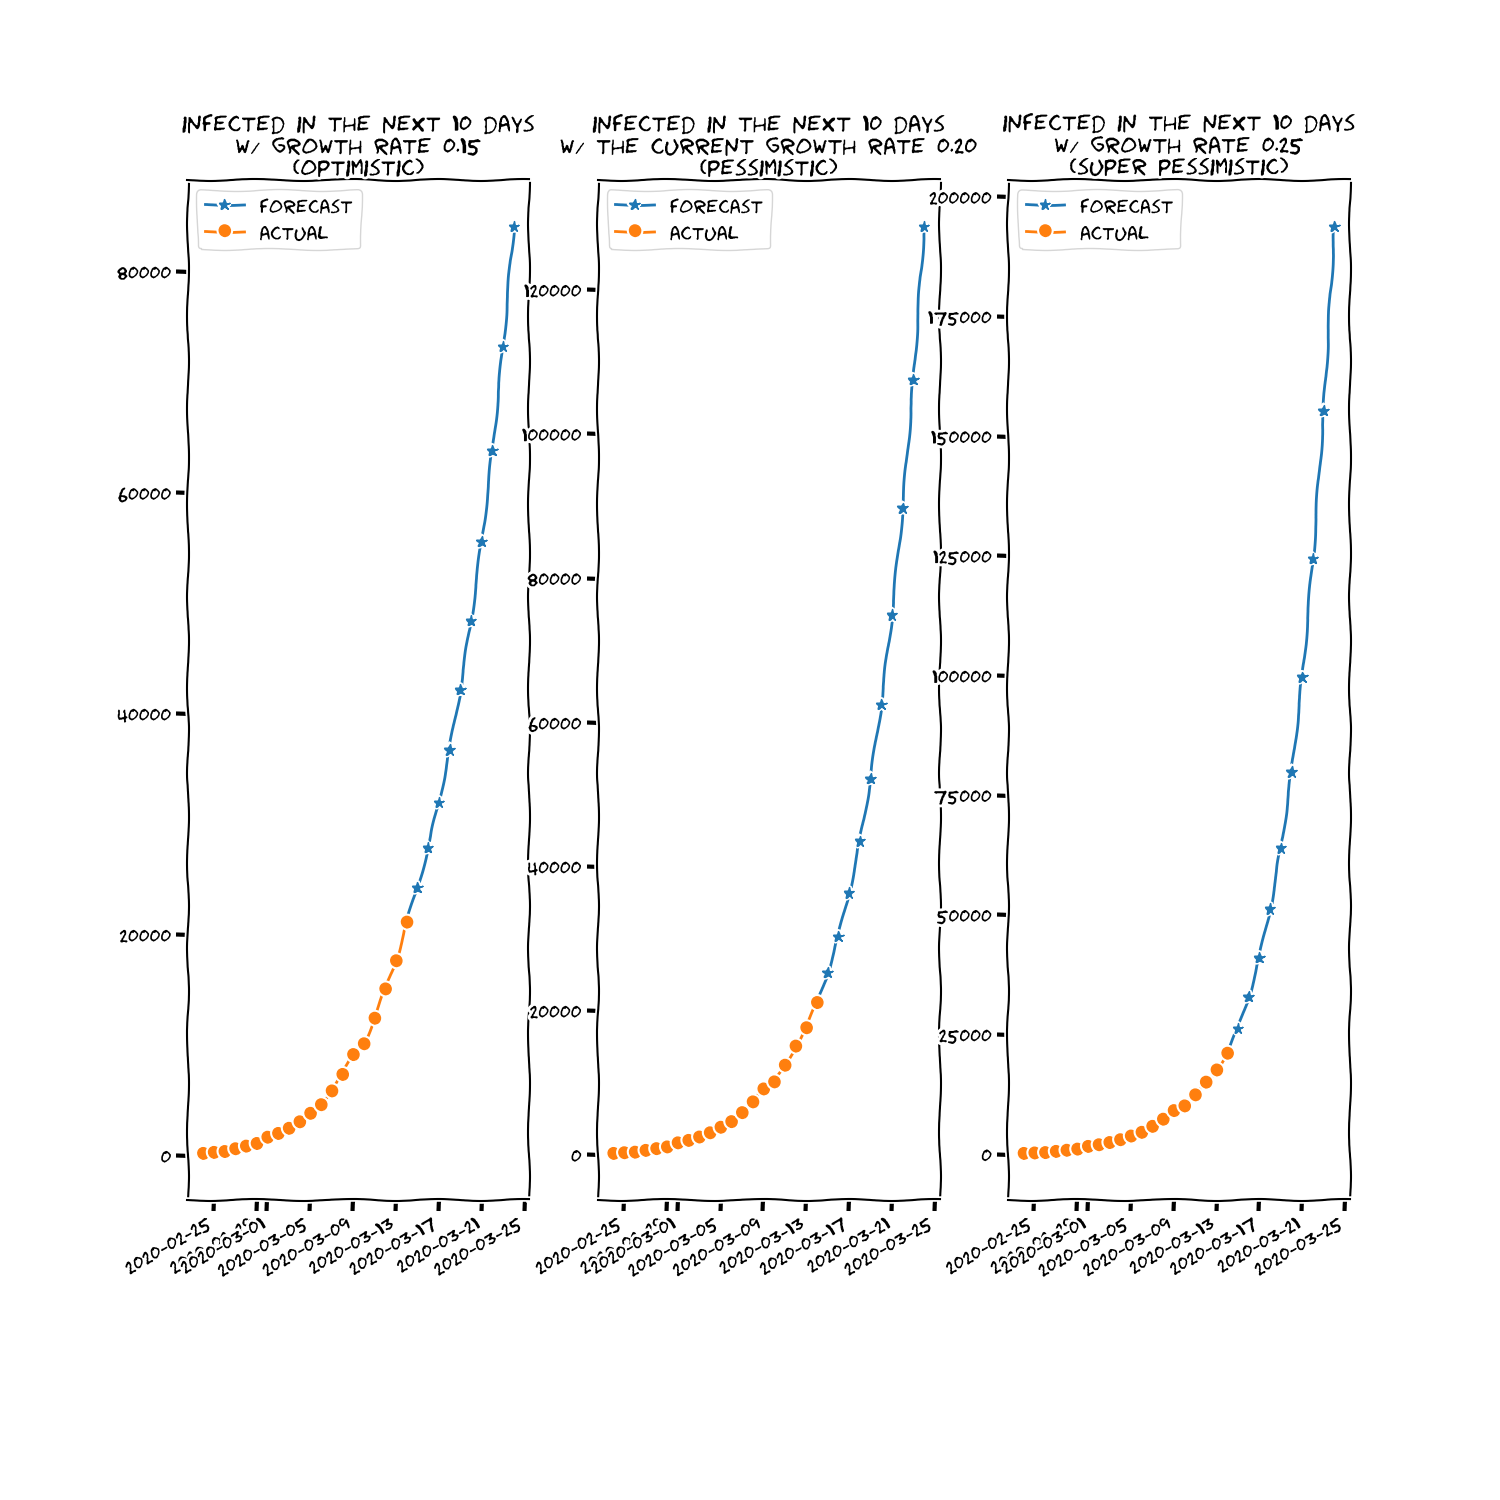
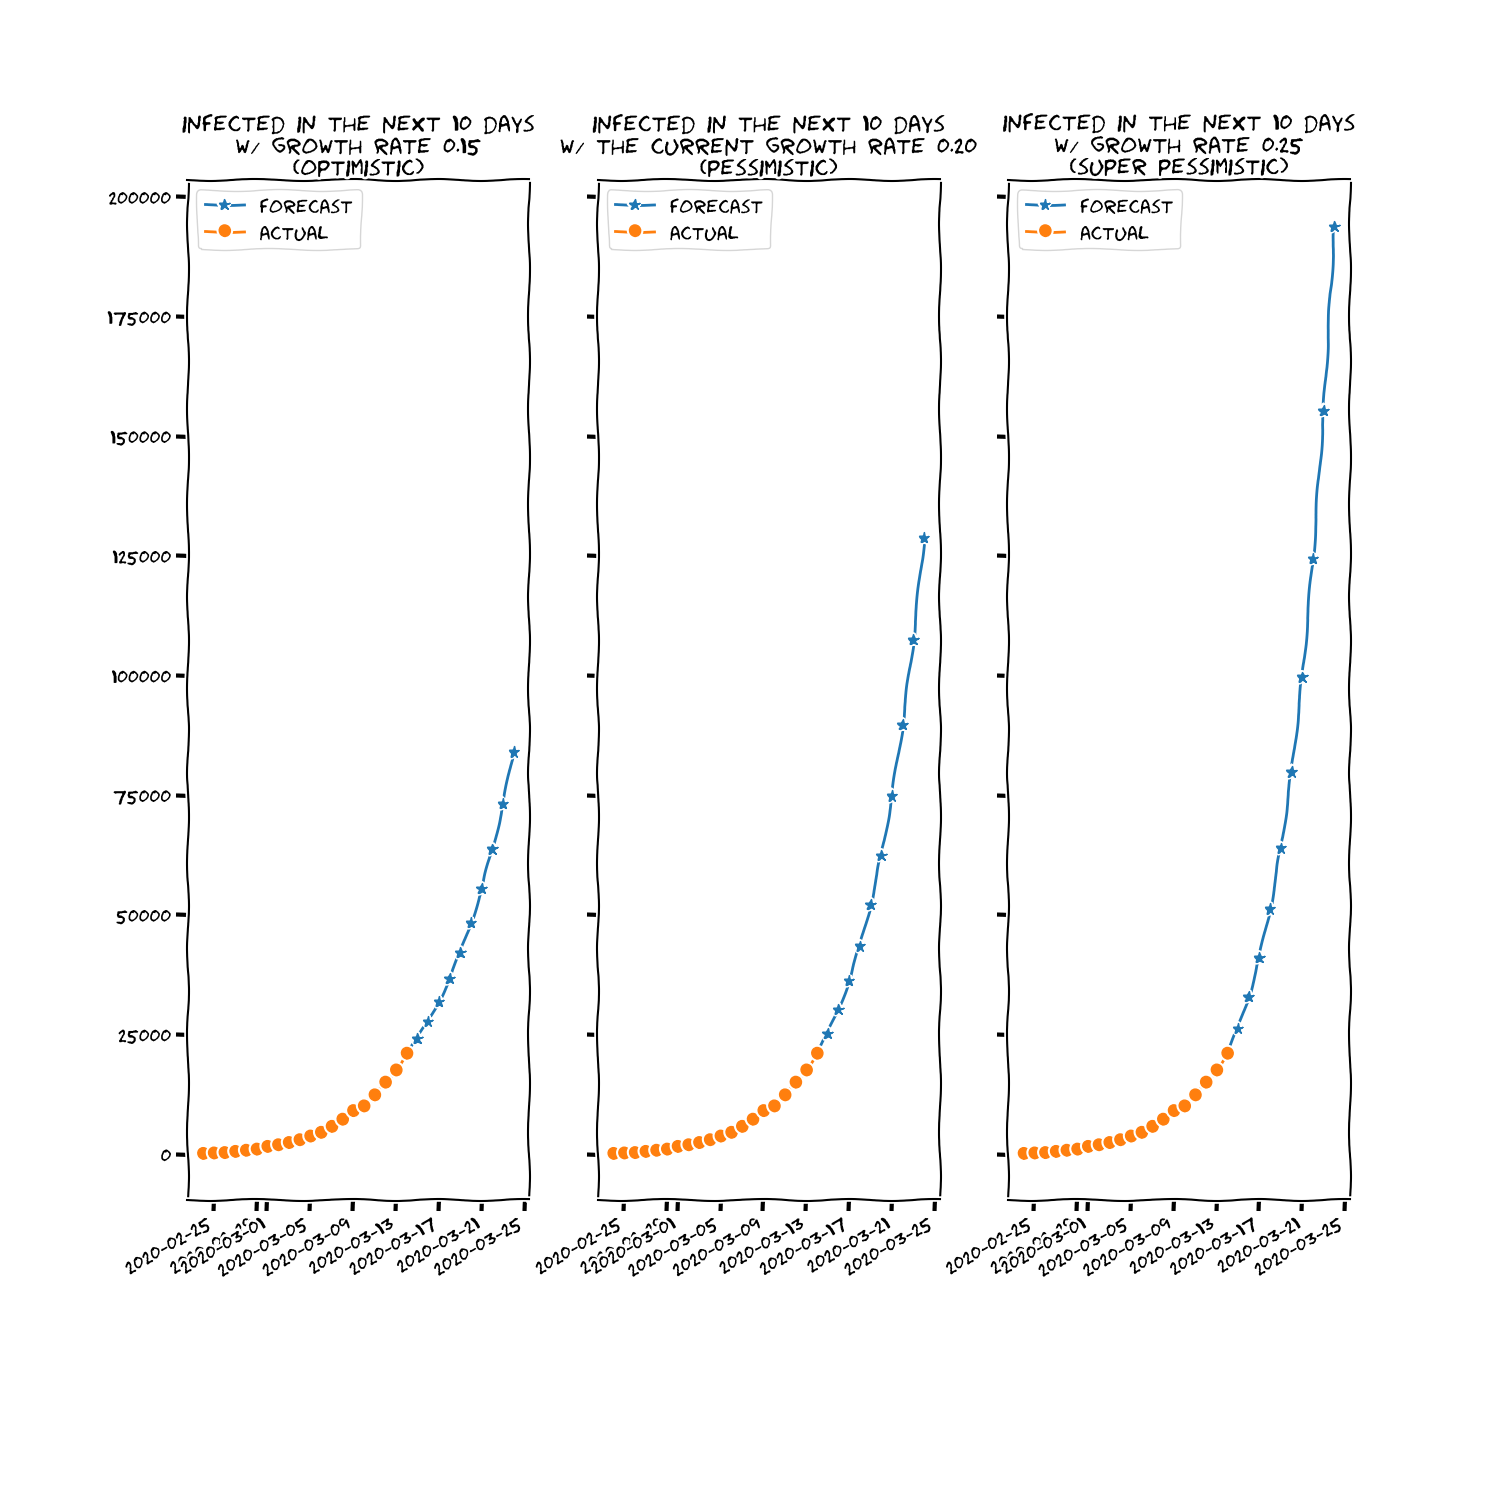
:art: share y axis

diff --git a/main.py b/main.py
@@ -163,7 +163,7 @@ if __name__ == '__main__':
         plt.savefig('report/stats.png')
 
     with plt.xkcd():
-        fig, (ax1, ax2, ax3) = plt.subplots(nrows=1, ncols=3, figsize=(15, 15))
+        fig, (ax1, ax2, ax3) = plt.subplots(nrows=1, ncols=3, figsize=(15, 15), sharey=True)
 
         fig.autofmt_xdate()
 
@@ -189,7 +189,7 @@ if __name__ == '__main__':
         plt.savefig('report/static_forecast.png')
 
     with plt.xkcd():
-        fig, (ax1, ax2, ax3) = plt.subplots(nrows=1, ncols=3, figsize=(15, 15))
+        fig, (ax1, ax2, ax3) = plt.subplots(nrows=1, ncols=3, figsize=(15, 15), sharey=True)
 
         fig.autofmt_xdate()
 
